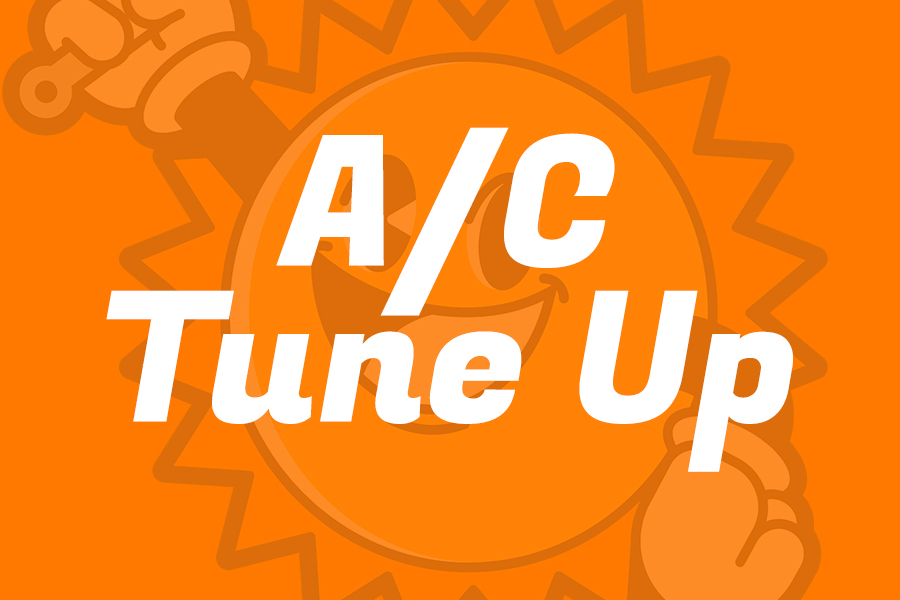
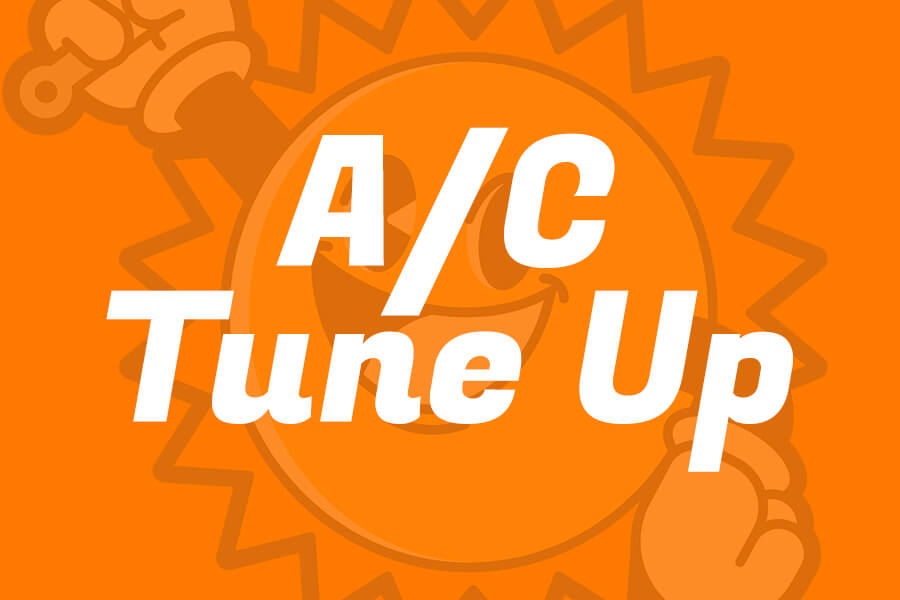
Optimización de imágenes

diff --git a/index.html b/index.html
@@ -73,7 +73,7 @@
               </div>
               <div class="col-12 col-lg-6 d-flex justify-content-center">
                 <div>
-                  <img src="./Multimedia/banner element.png" alt="">
+                  <img src="./Multimedia/banner element.webp" alt="">
                 </div>
               </div>
             </div>
@@ -204,7 +204,7 @@
                   </a>
               </div>
               <div class="col-12 col-lg-6 d-flex align-items-center justify-content-center">
-                  <img style="height: 350px; width: 450px;" src="./Multimedia/Van-Mockup3.jpg" alt="">
+                  <img style="height: 350px; width: 450px;" src="./Multimedia/Van-Mockup3.webp" alt="">
               </div>
           </div>
       </div>

diff --git a/style.css b/style.css
@@ -16,7 +16,7 @@ header{
 
 .banner{
     height: 85vh;
-    background: url(./Multimedia/banner\ background.png) no-repeat center / cover;
+    background: url(./Multimedia/banner_background.webp) no-repeat center / cover;
 }
 
 @media (max-width: 991px) {
